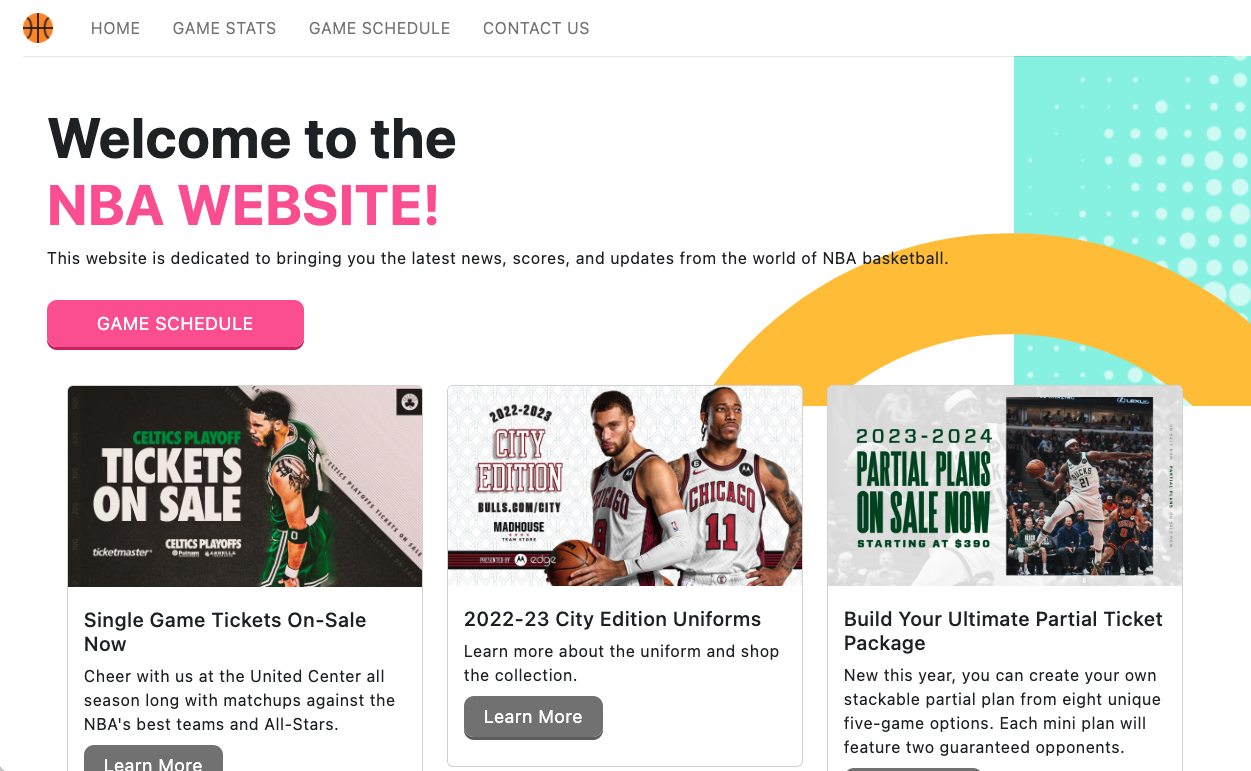
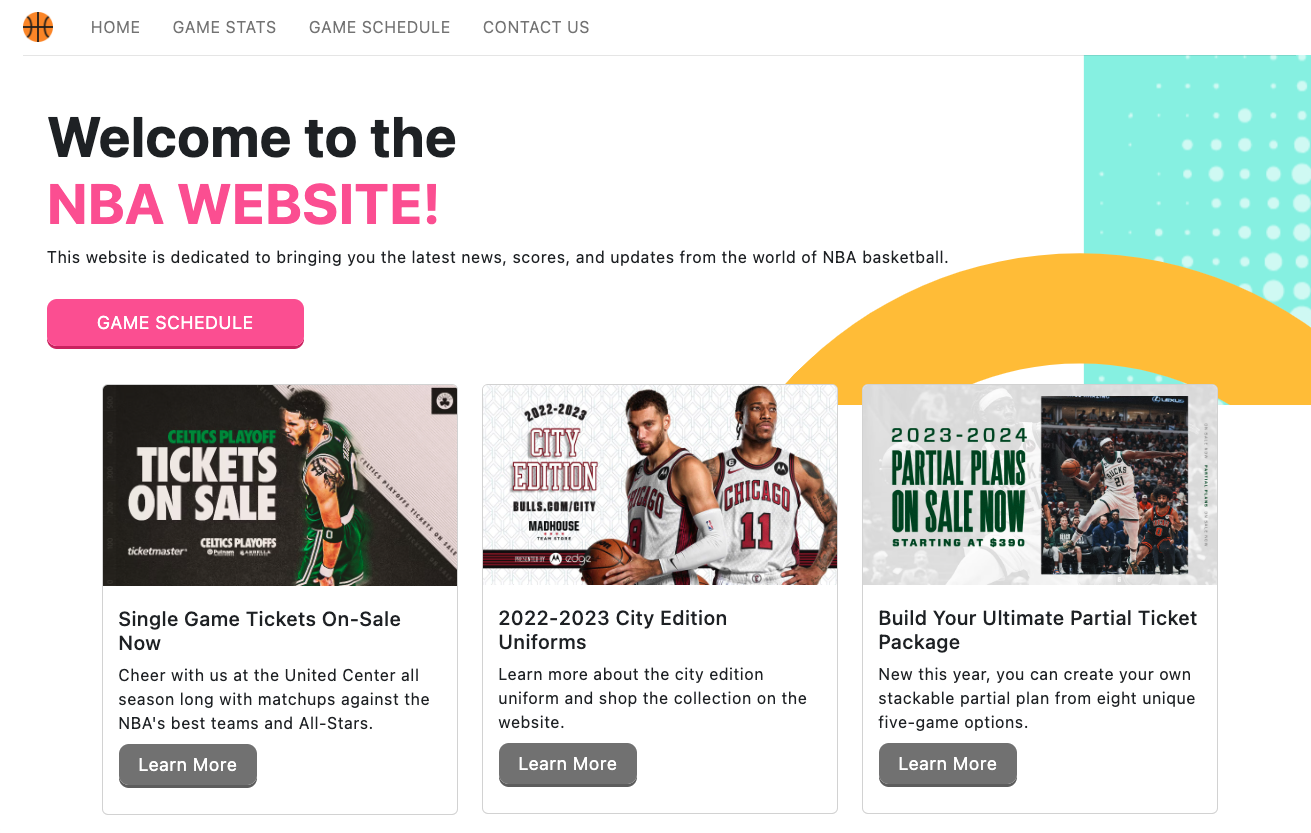
update readme

diff --git a/src/components/Gallery.js b/src/components/Gallery.js
@@ -2,60 +2,60 @@ import React from "react";
 
 const Gallery = () => {
     return (
-        <div className="row row-cols-1 row-cols-md-3 g-4">
-            <div className="col">
-                <div className="card">
-                    <img
-                        src="https://cdn.nba.com/teams/uploads/sites/1610612738/2023/03/Playoffs_2023_Tickets_Site_Mobile_Banner_740x420.jpg?imwidth=740&imheight=420"
-                        className="card-img-top"
-                        alt="Ticket"
-                    />
-                    <div className="card-body">
-                        <h5 className="card-title">
-                            Single Game Tickets On-Sale Now
-                        </h5>
-                        <p className="card-text">
-                            Cheer with us at the United Center all season long with matchups against the NBA's best teams and All-Stars.
-                        </p>
-                        <a href="https://www.nba.com/celtics/schedule?page=playoffs" target="_blank" rel="noopener noreferrer" className='secondary-button'>Learn More</a>
+            <div className="row row-cols-1 row-cols-md-3 g-4">
+                <div className="col">
+                    <div className="card">
+                        <img
+                            src="https://cdn.nba.com/teams/uploads/sites/1610612738/2023/03/Playoffs_2023_Tickets_Site_Mobile_Banner_740x420.jpg?imwidth=740&imheight=420"
+                            className="card-img-top"
+                            alt="Ticket"
+                        />
+                        <div className="card-body">
+                            <h5 className="card-title">
+                                Single Game Tickets On-Sale Now
+                            </h5>
+                            <p className="card-text">
+                                Cheer with us at the United Center all season long with matchups against the NBA's best teams and All-Stars.
+                            </p>
+                            <a href="https://www.nba.com/celtics/schedule?page=playoffs" target="_blank" rel="noopener noreferrer" className='secondary-button'>Learn More</a>
+                        </div>
                     </div>
                 </div>
-            </div>
-            <div className="col">
-                <div className="card">
-                    <img
-                        src="https://cdn.nba.com/teams/uploads/sites/1610612741/2022/11/Image-from-iOS-1.jpg"
-                        className="card-img-top"
-                        alt="shop"
-                    />
-                    <div className="card-body">
-                        <h5 className="card-title">2022-23 City Edition Uniforms</h5>
-                        <p className="card-text">
-                        Learn more about the uniform and shop the collection.
-                        </p>
-                        <a href="https://www.nba.com/bulls/city-edition/2223" target="_blank" rel="noopener noreferrer" className='secondary-button'>Learn More</a>
+                <div className="col">
+                    <div className="card">
+                        <img
+                            src="https://cdn.nba.com/teams/uploads/sites/1610612741/2022/11/Image-from-iOS-1.jpg"
+                            className="card-img-top"
+                            alt="shop"
+                        />
+                        <div className="card-body">
+                            <h5 className="card-title">2022-2023 City Edition Uniforms</h5>
+                            <p className="card-text">
+                                Learn more about the city edition uniform and shop the collection on the website.
+                            </p>
+                            <a href="https://www.nba.com/bulls/city-edition/2223" target="_blank" rel="noopener noreferrer" className='secondary-button'>Learn More</a>
+                        </div>
                     </div>
                 </div>
-            </div>
-            <div className="col">
-                <div className="card">
-                    <img
-                        src="https://cdn.nba.com/teams/uploads/sites/1610612749/2023/03/Partial-Plan.png"
-                        className="card-img-top"
-                        alt="ticket"
-                    />
-                    <div className="card-body">
-                        <h5 className="card-title">Build Your Ultimate Partial Ticket Package</h5>
-                        <p className="card-text"> 
-                        New this year, you can create your own stackable partial plan from eight unique five-game options. Each mini plan will feature two guaranteed opponents.
-                        </p>
-                        <a href="https://www.nba.com/bucks/tickets/partial" target="_blank" rel="noopener noreferrer" className='secondary-button'>Learn More</a>
+                <div className="col">
+                    <div className="card">
+                        <img
+                            src="https://cdn.nba.com/teams/uploads/sites/1610612749/2023/03/Partial-Plan.png"
+                            className="card-img-top"
+                            alt="ticket"
+                        />
+                        <div className="card-body">
+                            <h5 className="card-title">Build Your Ultimate Partial Ticket Package</h5>
+                            <p className="card-text">
+                                New this year, you can create your own stackable partial plan from eight unique five-game options. 
+                            </p>
+                            <a href="https://www.nba.com/bucks/tickets/partial" target="_blank" rel="noopener noreferrer" className='secondary-button'>Learn More</a>
+                        </div>
                     </div>
                 </div>
-            </div>
 
-          
-        </div>
+
+            </div>
 
     );
 };

diff --git a/README.md b/README.md
@@ -14,7 +14,7 @@ To run this project locally, you'll need to have Node.js and npm installed on yo
 3. Start the development server with npm start
 
 ## API:
-This project uses the official NBA API to fetch team and game data. It is also integrated with Formspree to handle the contact form submissions.
+This project uses the sportsdata.io and balldontlie.io NBA API to fetch team and game data. It is also integrated with Formspree to handle the contact form submissions.
 
 ## File Structure
 The project is structured as follows:
